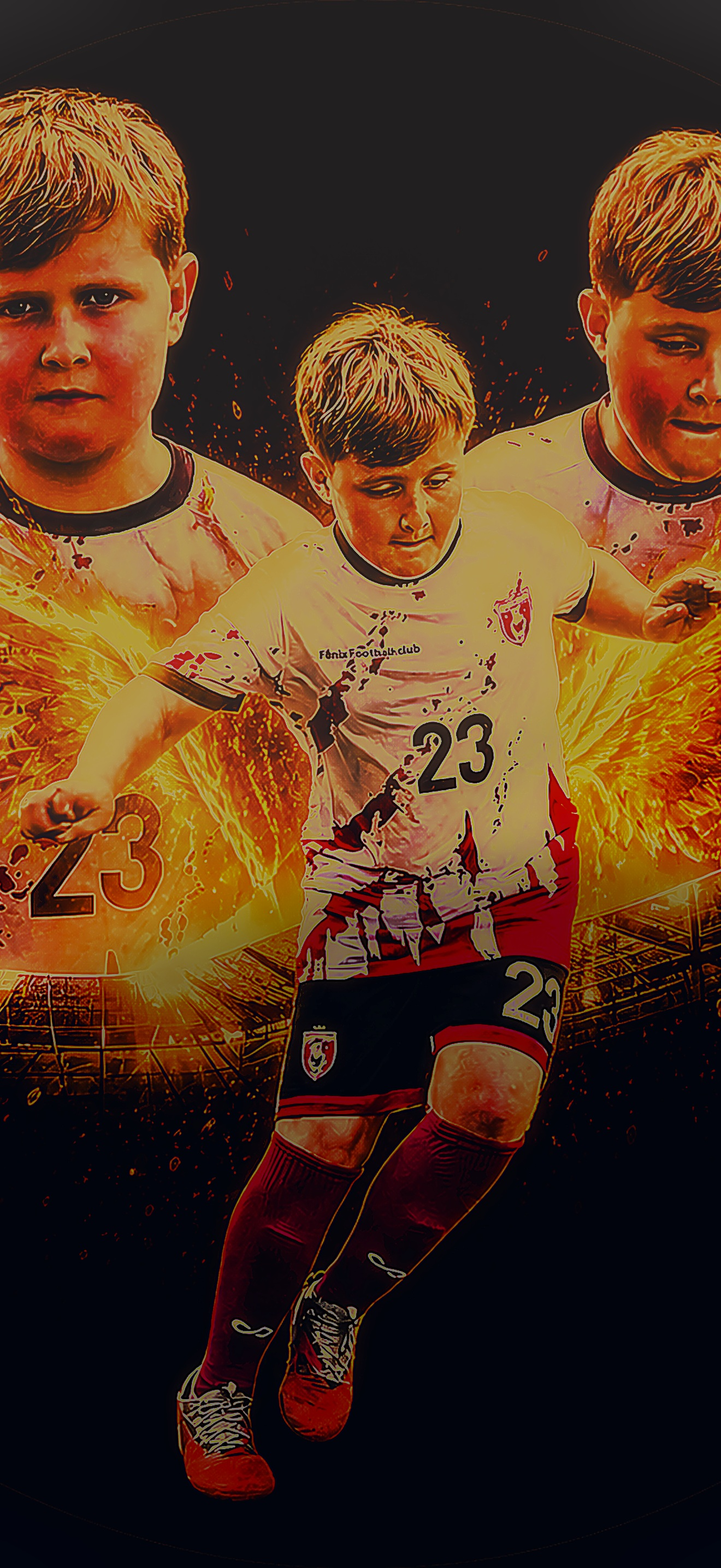
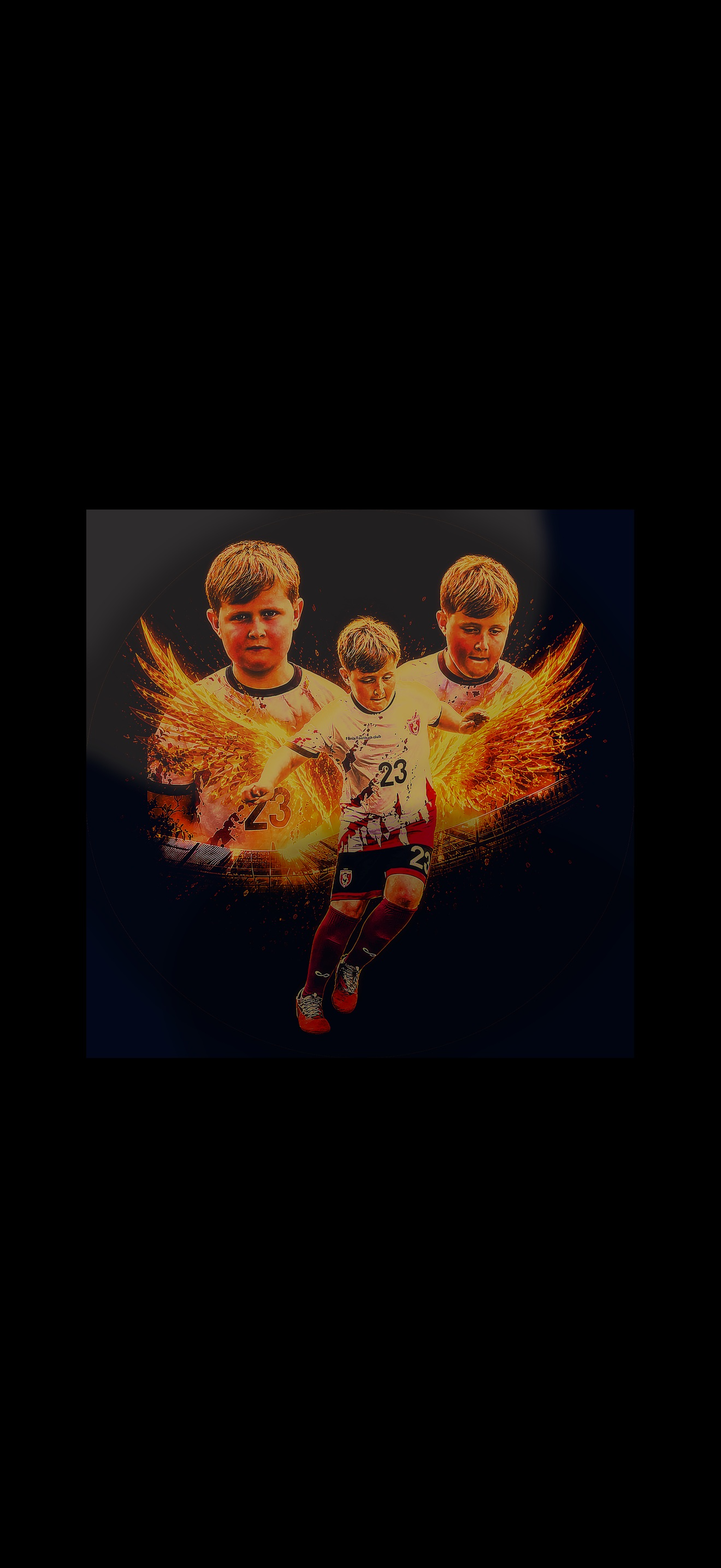
Scale wallpaper smaller: centered fit with margins
Replace full-screen cover crop with 76% width fit so the graphic
is not oversized on iPhone 17 Pro Max.

diff --git a/fenix-football-wallpaper/enhance_original.py b/fenix-football-wallpaper/enhance_original.py
@@ -21,14 +21,19 @@ def find_original() -> Path:
     raise FileNotFoundError("Add your photo as fenix-football-wallpaper/original.jpg")
 
 
-def cover_crop_portrait(src: Image.Image) -> Image.Image:
-    """Fill the full portrait screen — no tiny square floating in black."""
-    scale = max(TARGET_W / src.width, TARGET_H / src.height)
-    w, h = int(src.width * scale), int(src.height * scale)
-    scaled = src.resize((w, h), Image.Resampling.LANCZOS)
-    left = (w - TARGET_W) // 2
-    top = (h - TARGET_H) // 2
-    return scaled.crop((left, top, left + TARGET_W, top + TARGET_H))
+def fit_portrait(src: Image.Image, width_pct: float = 0.76, height_pct: float = 0.52) -> Image.Image:
+    """Center the artwork on portrait canvas — smaller, with breathing room."""
+    max_w = int(TARGET_W * width_pct)
+    max_h = int(TARGET_H * height_pct)
+    scale = min(max_w / src.width, max_h / src.height)
+    w, h = max(1, int(src.width * scale)), max(1, int(src.height * scale))
+    artwork = src.resize((w, h), Image.Resampling.LANCZOS)
+
+    canvas = Image.new("RGB", (TARGET_W, TARGET_H), (0, 0, 0))
+    x = (TARGET_W - w) // 2
+    y = (TARGET_H - h) // 2
+    canvas.paste(artwork, (x, y))
+    return canvas
 
 
 def rgb_to_hsv(arr: np.ndarray) -> np.ndarray:
@@ -149,14 +154,14 @@ def edge_vignette(img: Image.Image) -> Image.Image:
 
 
 def supersample_enhance(src: Image.Image) -> Image.Image:
-    """2× supersample for cleaner upscale, then portrait cover crop."""
+    """2× supersample for cleaner detail, then fit centered on portrait canvas."""
     big = src.resize((src.width * 2, src.height * 2), Image.Resampling.LANCZOS)
     big = professional_grade(big)
     big = boost_fire_glow(big)
     big = clarity_and_sharpen(big)
     big = subtle_depth_lighting(big)
     big = edge_vignette(big)
-    return cover_crop_portrait(big)
+    return fit_portrait(big)
 
 
 def main() -> int:
